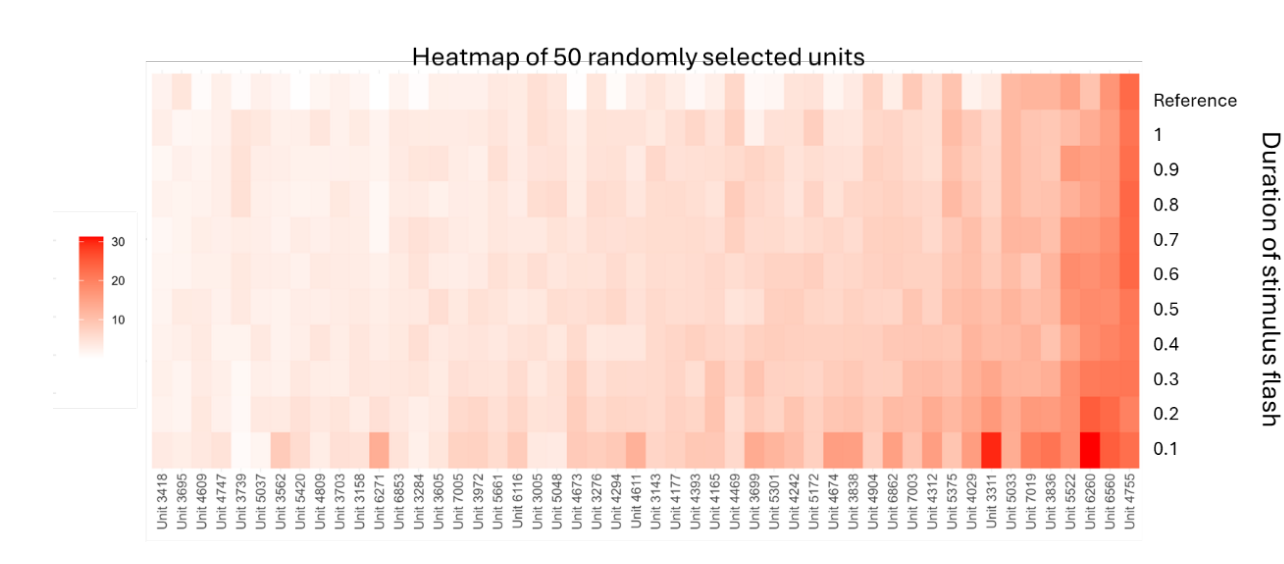
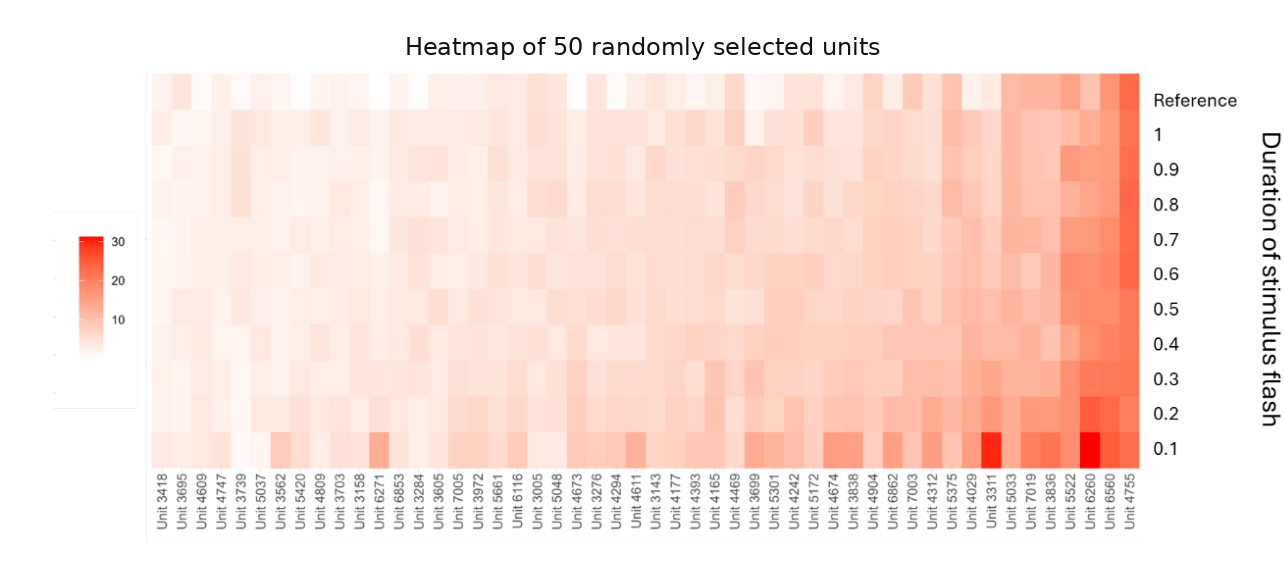
label

Changed region(s): [[0.3115, 0.0603, 0.6854, 0.1206]]

diff --git a/crtd.html b/crtd.html
@@ -58,8 +58,8 @@ body {
 .crtd-results-figure img{display:block;width:100%;height:auto;max-height:255px;object-fit:contain;background:white;margin:auto}
 .crtd-results-figure figcaption{font:12px/1.55 Tahoma,Arial,sans-serif;margin-top:9px}
 .crtd-results-figure figcaption strong{color:#000080}
-.crtd-results-figure--single{max-width:530px;margin:12px auto 20px}
-.crtd-results-figure--single img{max-height:270px}
+.crtd-results-figure--single{max-width:650px;margin:12px auto 20px}
+.crtd-results-figure--single img{max-height:none;width:100%;height:auto;object-fit:contain}
 @media(max-width:680px){.crtd-results-grid{grid-template-columns:1fr}.crtd-results-figure img{max-height:280px}}
 </style></head>
 <body><script src="shared-header.js"></script>
